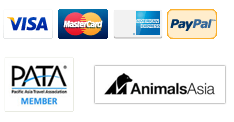
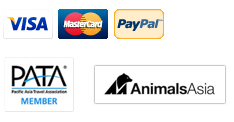
style: Remove Amex from payment options in the footer
Right now we do not offer American Express as a payment option, therefore it should be removed.

Changed region(s): [[0.4786, 0.0738, 0.9274, 0.3197]]

diff --git a/frontend/web/statics/css/site.css b/frontend/web/statics/css/site.css
@@ -1469,7 +1469,7 @@ h3.tour-right-title{
     background-repeat: no-repeat;
 }
 .footer-icons.payment{
-  width: 226px;
+  width: 170px;
   height: 36px;
   background-position: 0 -6px;
 }
